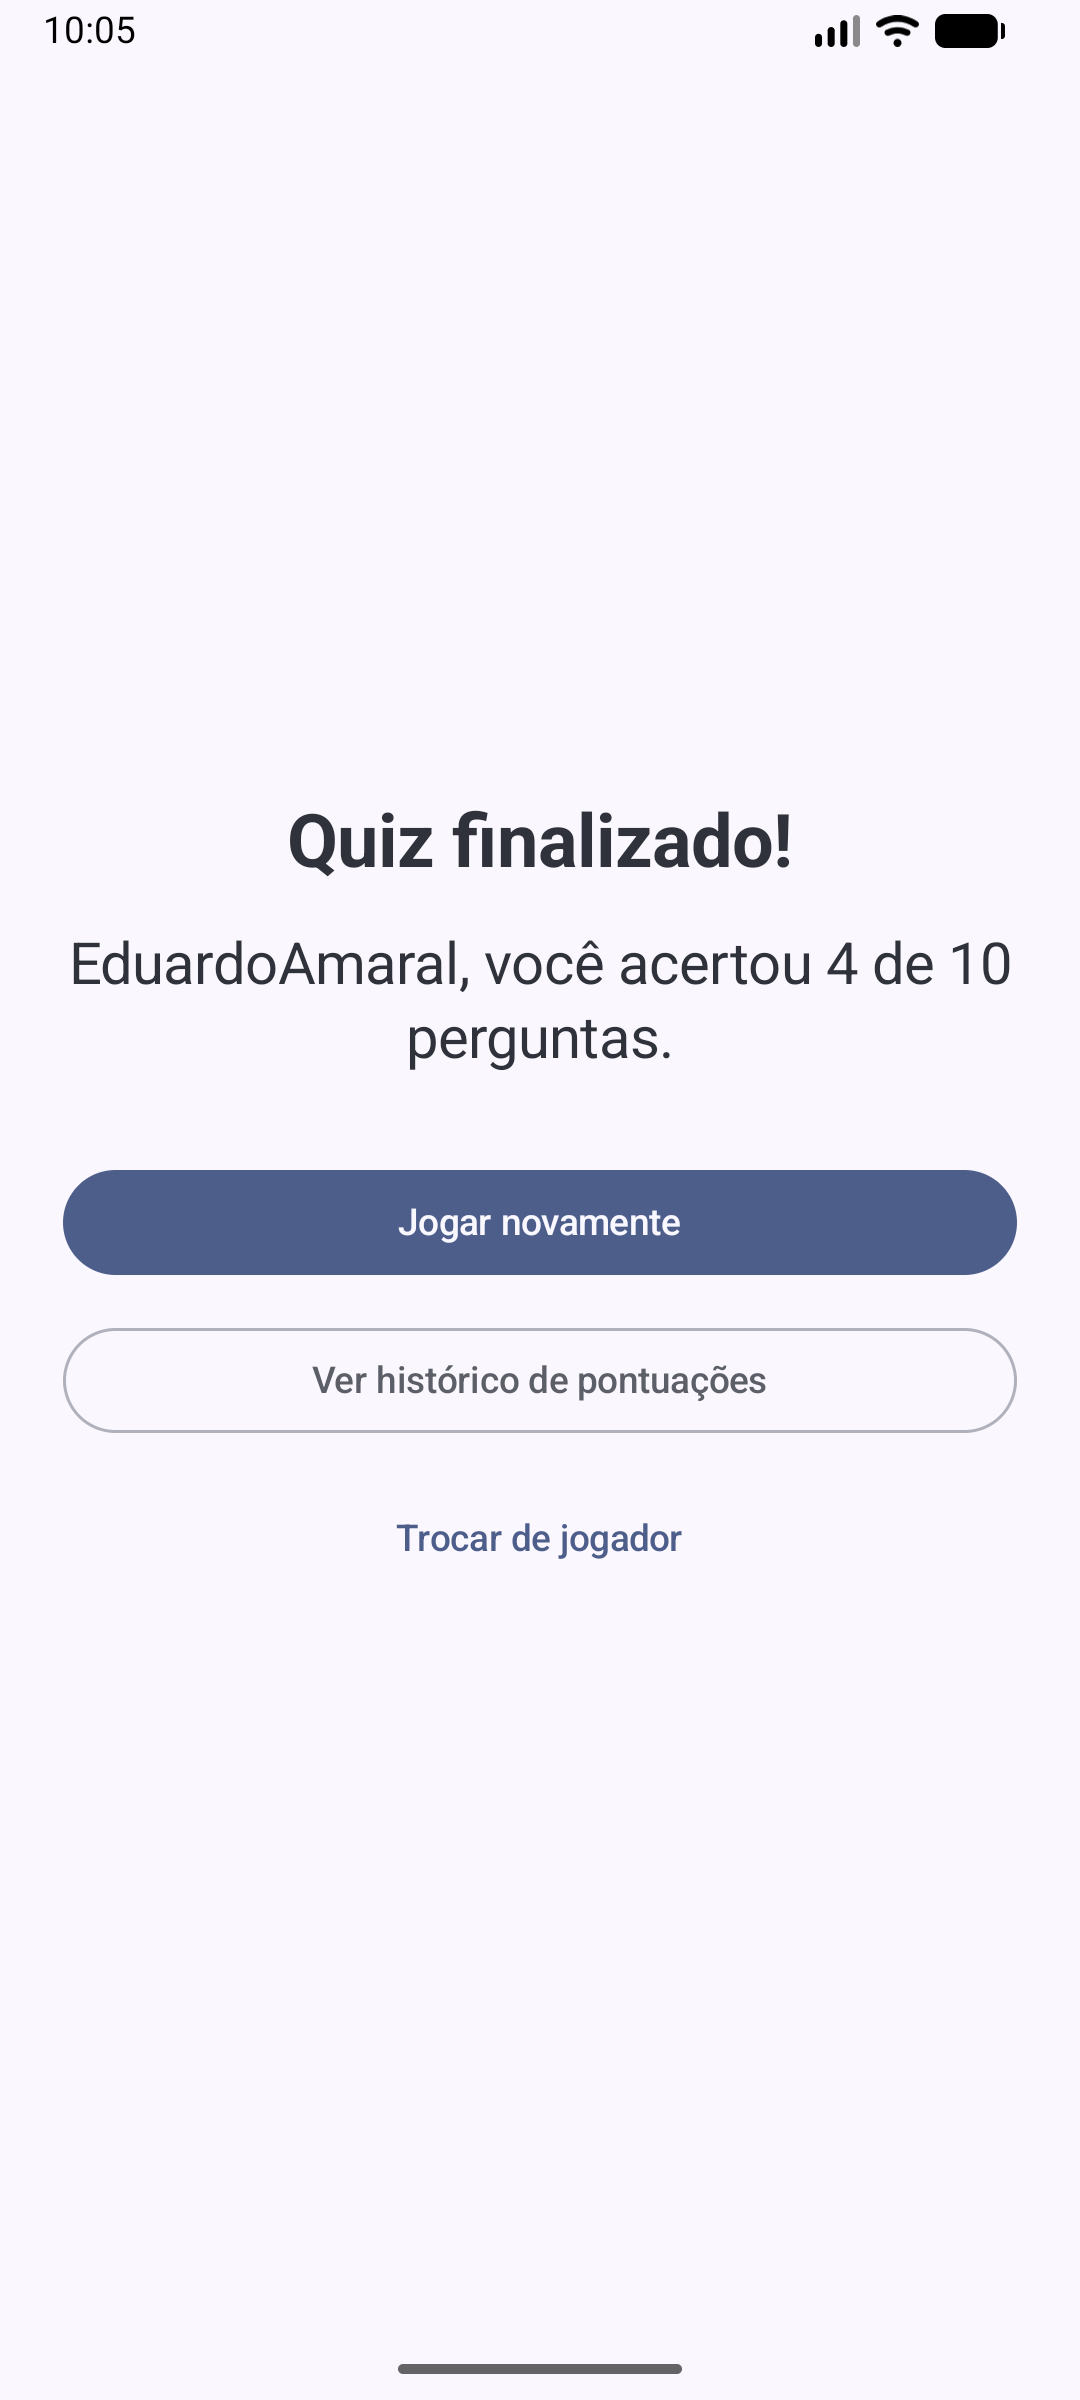
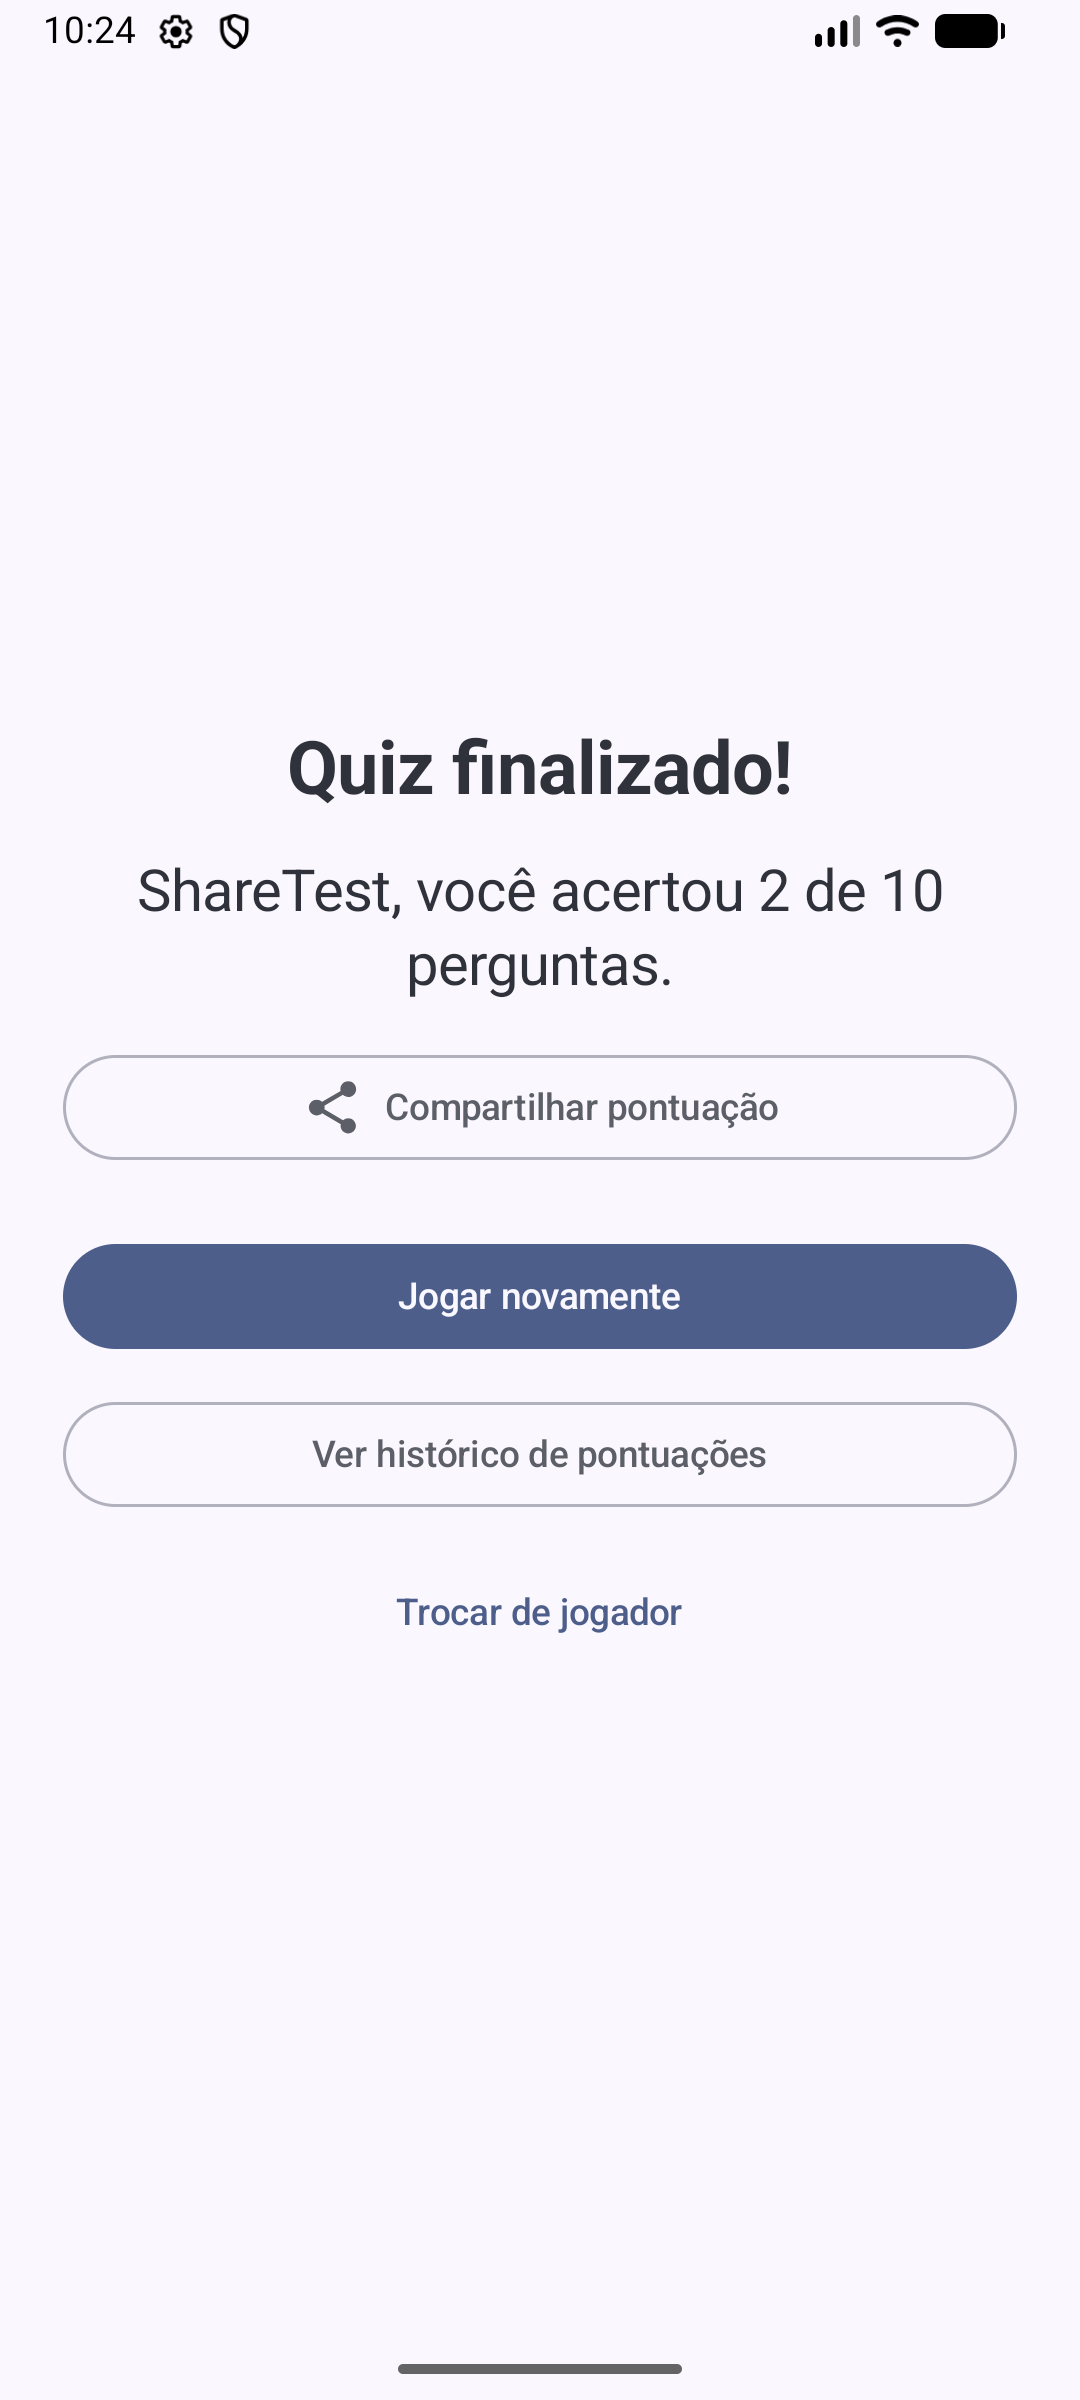
feat: share final score via the Android system share sheet
Addresses a phrase in the challenge's own user story 2 ('I want to know
the final score for the quiz... so that I could share it with friends')
that the result screen didn't act on before.

- ShareScoreText.kt: pure buildShareMessage() function (no Android
  Context dependency), so the message-formatting logic is unit-testable
  without Robolectric -- the localized string template is resolved via
  stringResource() in the Composable and passed in
- ResultScreen: new outlined button launches Intent.ACTION_SEND wrapped
  in Intent.createChooser(), i.e. the standard system share sheet, not a
  custom UI
- 3 new unit tests for the message formatting (including edge cases:
  perfect score, zero score)

Manually verified on an emulator: the share sheet opens with the exact
expected message ('<name> acertou X de 10 perguntas no Quiz Dynamox! 🎉'),
screenshot updated in the README.

diff --git a/app/src/main/java/com/dynamox/quizchallenge/ui/result/ResultScreen.kt b/app/src/main/java/com/dynamox/quizchallenge/ui/result/ResultScreen.kt
@@ -1,5 +1,6 @@
 package com.dynamox.quizchallenge.ui.result
 
+import android.content.Intent
 import androidx.compose.foundation.layout.Arrangement
 import androidx.compose.foundation.layout.Column
 import androidx.compose.foundation.layout.Spacer
@@ -7,7 +8,11 @@ import androidx.compose.foundation.layout.fillMaxSize
 import androidx.compose.foundation.layout.fillMaxWidth
 import androidx.compose.foundation.layout.height
 import androidx.compose.foundation.layout.padding
+import androidx.compose.foundation.layout.width
+import androidx.compose.material.icons.Icons
+import androidx.compose.material.icons.filled.Share
 import androidx.compose.material3.Button
+import androidx.compose.material3.Icon
 import androidx.compose.material3.MaterialTheme
 import androidx.compose.material3.OutlinedButton
 import androidx.compose.material3.Scaffold
@@ -16,6 +21,7 @@ import androidx.compose.material3.TextButton
 import androidx.compose.runtime.Composable
 import androidx.compose.ui.Alignment
 import androidx.compose.ui.Modifier
+import androidx.compose.ui.platform.LocalContext
 import androidx.compose.ui.res.stringResource
 import androidx.compose.ui.text.style.TextAlign
 import androidx.compose.ui.unit.dp
@@ -31,6 +37,10 @@ fun ResultScreen(
     onViewHistory: () -> Unit,
     modifier: Modifier = Modifier,
 ) {
+    val context = LocalContext.current
+    val shareMessageTemplate = stringResource(R.string.result_share_message)
+    val shareChooserTitle = stringResource(R.string.result_share_chooser_title)
+
     Scaffold(modifier = modifier) { padding ->
         Column(
             modifier = Modifier
@@ -51,7 +61,25 @@ fun ResultScreen(
                 style = MaterialTheme.typography.titleLarge,
                 textAlign = TextAlign.Center,
             )
-            Spacer(Modifier.height(32.dp))
+            Spacer(Modifier.height(16.dp))
+            OutlinedButton(
+                onClick = {
+                    val message = buildShareMessage(shareMessageTemplate, playerName, correctCount, totalQuestions)
+                    val sendIntent = Intent(Intent.ACTION_SEND).apply {
+                        type = "text/plain"
+                        putExtra(Intent.EXTRA_TEXT, message)
+                    }
+                    context.startActivity(Intent.createChooser(sendIntent, shareChooserTitle))
+                },
+                modifier = Modifier.fillMaxWidth(),
+            ) {
+                // Decorative: the button's own text already announces "Compartilhar pontuação",
+                // so the icon does not need a separate content description.
+                Icon(imageVector = Icons.Filled.Share, contentDescription = null)
+                Spacer(Modifier.width(8.dp))
+                Text(stringResource(R.string.result_share_button))
+            }
+            Spacer(Modifier.height(24.dp))
             Button(onClick = onRestart, modifier = Modifier.fillMaxWidth()) {
                 Text(stringResource(R.string.result_restart_button))
             }

diff --git a/app/src/test/java/com/dynamox/quizchallenge/ui/result/ShareScoreTextTest.kt b/app/src/test/java/com/dynamox/quizchallenge/ui/result/ShareScoreTextTest.kt
@@ -1,0 +1,30 @@
+package com.dynamox.quizchallenge.ui.result
+
+import org.junit.Assert.assertEquals
+import org.junit.Test
+
+class ShareScoreTextTest {
+
+    private val template = "%1\$s acertou %2\$d de %3\$d perguntas no Quiz Dynamox! 🎉"
+
+    @Test
+    fun `substitutes player name, correct count and total questions in order`() {
+        val message = buildShareMessage(template, playerName = "Ada", correctCount = 8, totalQuestions = 10)
+
+        assertEquals("Ada acertou 8 de 10 perguntas no Quiz Dynamox! 🎉", message)
+    }
+
+    @Test
+    fun `handles a perfect score`() {
+        val message = buildShareMessage(template, playerName = "Grace", correctCount = 10, totalQuestions = 10)
+
+        assertEquals("Grace acertou 10 de 10 perguntas no Quiz Dynamox! 🎉", message)
+    }
+
+    @Test
+    fun `handles a zero score`() {
+        val message = buildShareMessage(template, playerName = "Ada", correctCount = 0, totalQuestions = 10)
+
+        assertEquals("Ada acertou 0 de 10 perguntas no Quiz Dynamox! 🎉", message)
+    }
+}

diff --git a/app/src/main/java/com/dynamox/quizchallenge/ui/result/ShareScoreText.kt b/app/src/main/java/com/dynamox/quizchallenge/ui/result/ShareScoreText.kt
@@ -1,0 +1,17 @@
+package com.dynamox.quizchallenge.ui.result
+
+/**
+ * Builds the plain-text message shared via the Android system share sheet, addressing user
+ * story 2 ("...so that I could share it with friends").
+ *
+ * [template] must use the same positional placeholders (%1$s player name, %2$d correct count,
+ * %3$d total questions) as `R.string.result_share_message`. It is resolved by the caller (a
+ * Composable, via `stringResource`) and passed in here, so this function stays a plain,
+ * Android-`Context`-free unit that is trivial to unit test without Robolectric.
+ */
+fun buildShareMessage(
+    template: String,
+    playerName: String,
+    correctCount: Int,
+    totalQuestions: Int,
+): String = String.format(template, playerName, correctCount, totalQuestions)

diff --git a/README.md b/README.md
@@ -27,7 +27,7 @@ actually persisted to disk rather than kept only in memory.
 - [x] Written in **Kotlin**.
 - [x] **Jetpack Compose** for every screen (Material 3).
 - [x] Local persistence of players and scores (**Room**) — see the score history screen.
-- [x] Automated **unit tests** covering the core business logic (23 JVM tests).
+- [x] Automated **unit tests** covering the core business logic (26 JVM tests).
 
 ### Bonus
 
@@ -45,7 +45,7 @@ actually persisted to disk rather than kept only in memory.
       `BadRequest` (400), `NotFound` (404), `ServerError` (5xx) — plus `Network` and
       `Unknown`, so the UI never deals with raw HTTP codes or exceptions.
 - [x] **Integration tests** for the main business logic (MockWebServer + an instrumented
-      Room test) — 2 extra tests beyond the mandatory unit tests, 25 in total.
+      Room test) — 2 extra tests beyond the mandatory unit tests, 28 in total.
 - [x] This **README** with setup instructions, architecture and documented assumptions.
 - [x] **CI** (GitHub Actions) running the full test suite and a debug build on every push.
 
@@ -259,13 +259,14 @@ plugin version available at the time only supports AGP 9+.
 
 ## Testing strategy
 
-25 automated tests in total:
+28 automated tests in total:
 
 | Type | Location | What it covers |
 |---|---|---|
 | Unit (JVM) | `app/src/test/.../domain/usecase/GetUniqueQuestionUseCaseTest.kt` | Duplicate-question retry/fallback logic |
 | Unit (JVM) | `app/src/test/.../ui/quiz/QuizViewModelTest.kt` | Full quiz flow: loading, selecting an option, correct/incorrect reveal, advancing, saving the final score on the 10th question, error state + retry |
 | Unit (JVM) | `app/src/test/.../ui/history/HistoryViewModelTest.kt` | Empty state and reflecting saved scores |
+| Unit (JVM) | `app/src/test/.../ui/result/ShareScoreTextTest.kt` | Share-message placeholder substitution (player name, correct count, total questions) |
 | Integration (JVM + MockWebServer) | `app/src/test/.../data/repository/QuizRepositoryImplTest.kt` | Exercises the real Retrofit/OkHttp/kotlinx.serialization wiring against a local HTTP server, including the plain-text HTTP 400 body observed from the real backend |
 | Integration (instrumented) | `app/src/androidTest/.../data/local/PlayerScoreDaoTest.kt` | Room DAO against a real SQLite implementation on a device/emulator |
 
